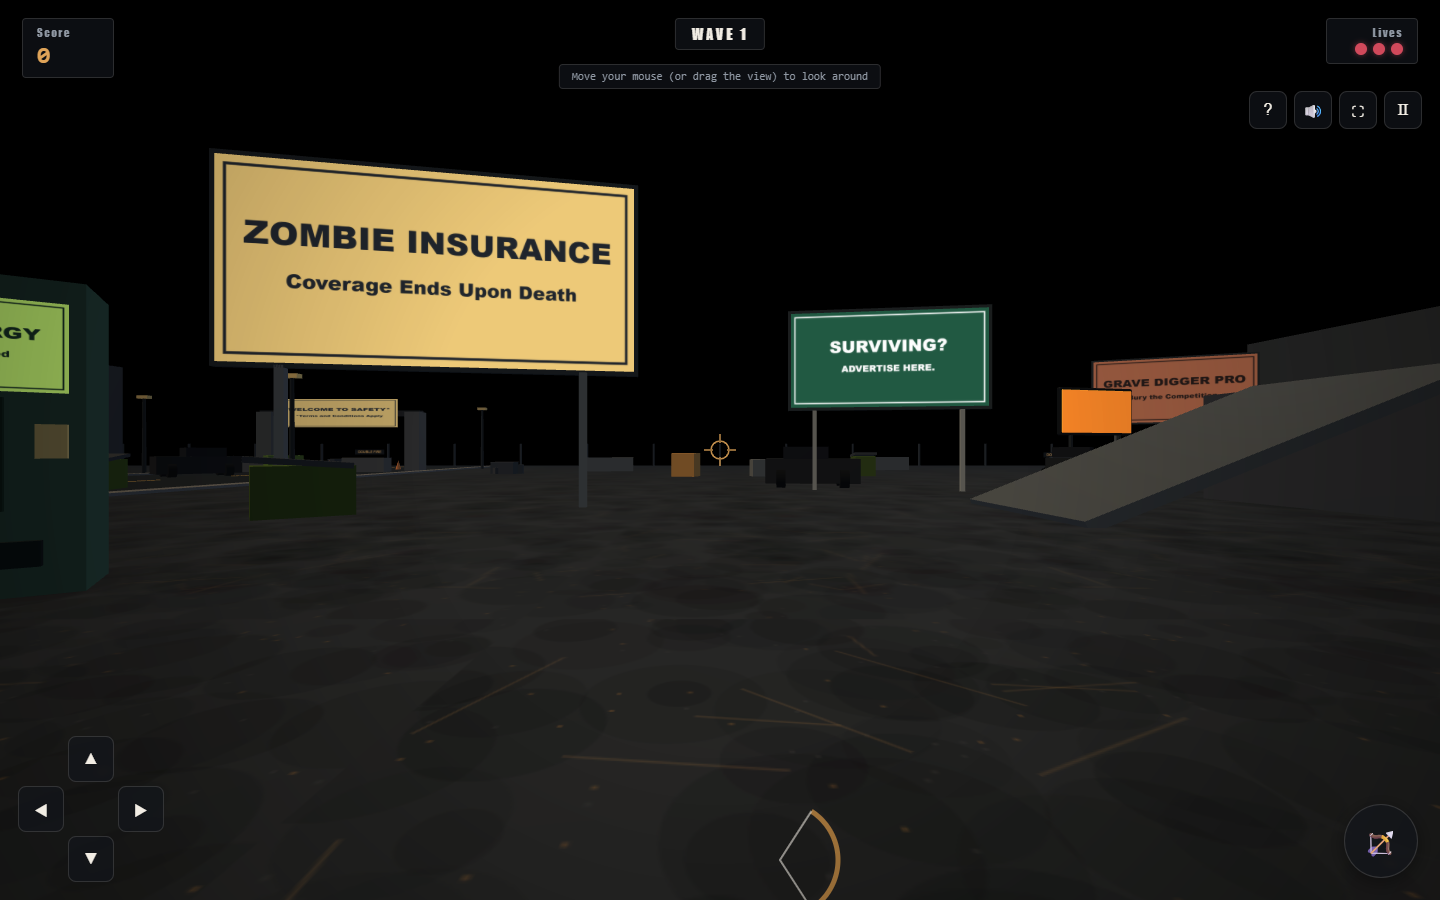
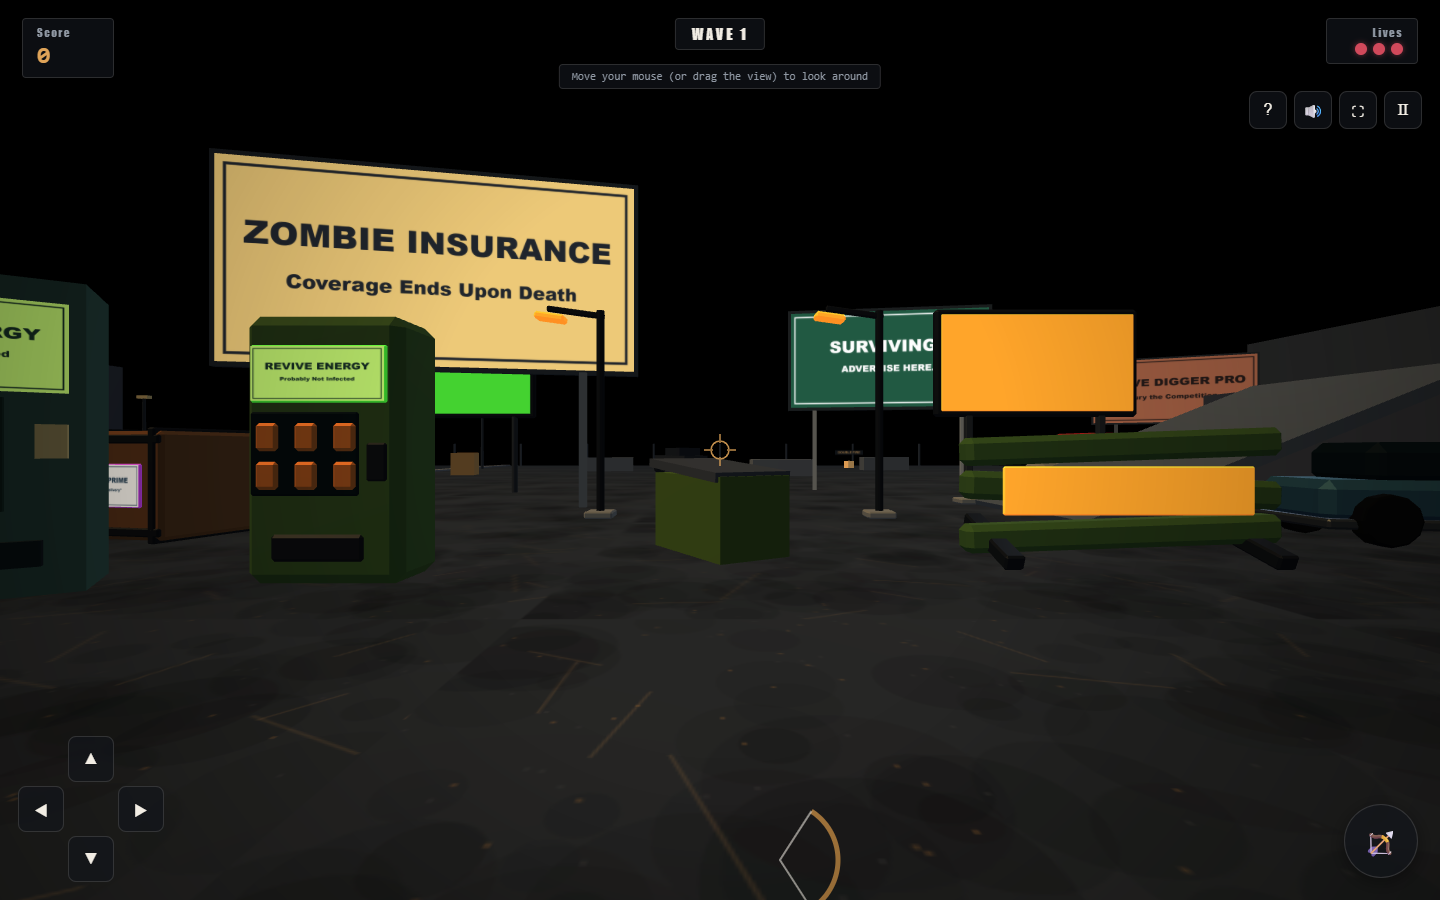
Make Blender environment visible from spawn

diff --git a/index.html b/index.html
@@ -5,7 +5,7 @@
 <meta name="viewport" content="width=device-width,initial-scale=1">
 <meta name="theme-color" content="#12151a">
 <meta name="description" content="Last Archer is a fast, funny browser survival game. Hold the line, loose arrows, and outlast the undead.">
-<title>Last Archer V2.3 — Portable Asset District</title>
+<title>Last Archer V2.3.1 — Blender District</title>
 <style>
   :root{
     --bg-deep:#12151a;
@@ -4125,7 +4125,7 @@
 
   <div id="start-screen" class="overlay">
     <div class="panel panel-wide">
-      <p class="eyebrow">V2.3 · Portable Asset District</p>
+      <p class="eyebrow">V2.3.1 · Blender District</p>
       <h1>LAST ARCHER</h1>
       <p class="tagline">The dead don't stop walking. Now the district is built from reusable Blender assets.</p>
       <div class="controls-hint">
@@ -4319,28 +4319,35 @@
 
   function buildPortableAssetLayer(){
     [
-      {key:'billboard',x:27,z:-43,rotation:.24,radius:2.8,ads:[
+      // The first cluster sits directly in the player's opening view so the Blender upgrade is obvious.
+      {key:'billboard',x:10,z:-19,rotation:0,radius:2.8,ads:[
         {id:'BILLBOARD_01',w:6.0,h:3.0,x:0,y:4.45,z:.19},
         {id:'BILLBOARD_01',w:6.0,h:3.0,x:0,y:4.45,z:-.19,rotation:Math.PI}
       ]},
-      {key:'vending',x:43,z:-5,rotation:-Math.PI/2,radius:1.3,ads:[
+      {key:'vending',x:-5,z:-8,rotation:0,radius:1.3,ads:[
         {id:'VENDING_01',w:1.66,h:.68,x:0,y:2.65,z:.59}
       ]},
-      {key:'barricade',x:25,z:18,rotation:.34,radius:2.45,ads:[
+      {key:'barricade',x:6,z:-9,rotation:0,radius:2.45,ads:[
         {id:'BARRICADE_SPONSOR',w:3.65,h:.68,x:0,y:1.1,z:.25}
       ]},
-      {key:'crate',x:43,z:12,rotation:-.28,radius:1.65,ads:[
+      {key:'barricade',x:-16,z:-24,rotation:.28,radius:2.45,ads:[
+        {id:'BARRICADE_SPONSOR',w:3.65,h:.68,x:0,y:1.1,z:.25}
+      ]},
+      {key:'crate',x:-11,z:-12,rotation:-.18,radius:1.65,ads:[
         {id:'CRATE_SPONSOR',w:1.5,h:.76,x:0,y:1.05,z:1.14}
       ]},
-      {key:'highway_sign',x:-31,z:52,rotation:0,radius:2.3,ads:[
+      {key:'crate',x:17,z:-12,rotation:.22,radius:1.65,ads:[
+        {id:'CRATE_SPONSOR',w:1.5,h:.76,x:0,y:1.05,z:1.14}
+      ]},
+      {key:'highway_sign',x:-10,z:-24,rotation:0,radius:2.3,ads:[
         {id:'ROAD_SIGN_01',w:4.8,h:2.06,x:0,y:4.2,z:.17},
         {id:'ROAD_SIGN_01',w:4.8,h:2.06,x:0,y:4.2,z:-.17,rotation:Math.PI}
       ]},
-      {key:'streetlight',x:31,z:-13,rotation:Math.PI,radius:.35},
-      {key:'streetlight',x:31,z:7,rotation:Math.PI,radius:.35},
-      {key:'roadblock',x:-14,z:34,rotation:.12,radius:2.2},
-      {key:'car',x:6,z:39,rotation:-.18,radius:2.35},
-      {key:'container',x:-15,z:43,rotation:.2,radius:3.2,ads:[
+      {key:'streetlight',x:-3,z:-15,rotation:Math.PI,radius:.35},
+      {key:'streetlight',x:4,z:-15,rotation:Math.PI,radius:.35},
+      {key:'roadblock',x:15,z:-25,rotation:.12,radius:2.2},
+      {key:'car',x:13,z:-11,rotation:-.18,radius:2.35},
+      {key:'container',x:21,z:-31,rotation:.2,radius:3.2,ads:[
         {id:'BILLBOARD_02',w:3.45,h:1.16,x:0,y:1.35,z:1.29}
       ]}
     ].forEach(spawnPortableAsset);

diff --git a/README.md b/README.md
@@ -1,6 +1,6 @@
-# Last Archer V2.3
+# Last Archer V2.3.1
 
-Last Archer is a browser-based first-person zombie survival game built with Three.js. Move through an expanded low-poly district, draw and release arrows, survive enemy waves, collect temporary powers, and earn permanent upgrades between runs.
+Last Archer is a browser-based first-person zombie survival game built with Three.js. Move through an expanded low-poly district, draw and release arrows, survive enemy waves, collect temporary powers, and earn permanent upgrades between runs. V2.3.1 places the Blender-built environment kit prominently around the starting district.
 
 ## Play
 
@@ -35,7 +35,7 @@ Every model is an independent binary GLB with a base-center pivot, meter scale, 
 
 ## Project files
 
-- `index.html` — current playable V2.3 build
+- `index.html` — current playable V2.3.1 build
 - `preview.png` — tested gameplay preview
 - `style-lab.html` — earlier zombie style comparison
 - `assets/environment-kit/` — GLBs, previews, manifest, and editable Blender source
